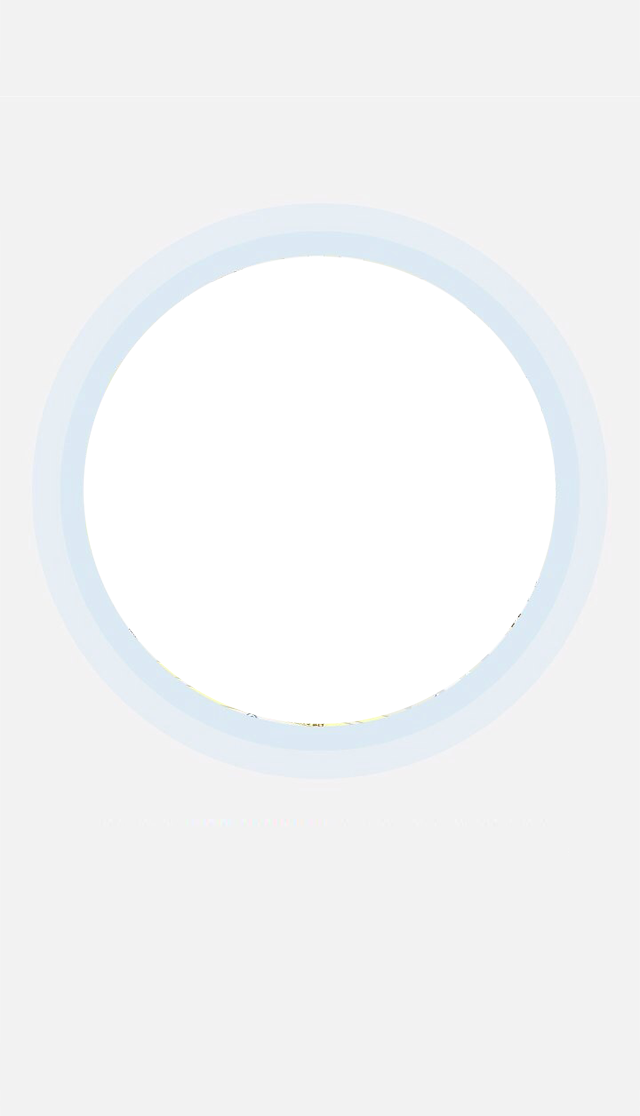
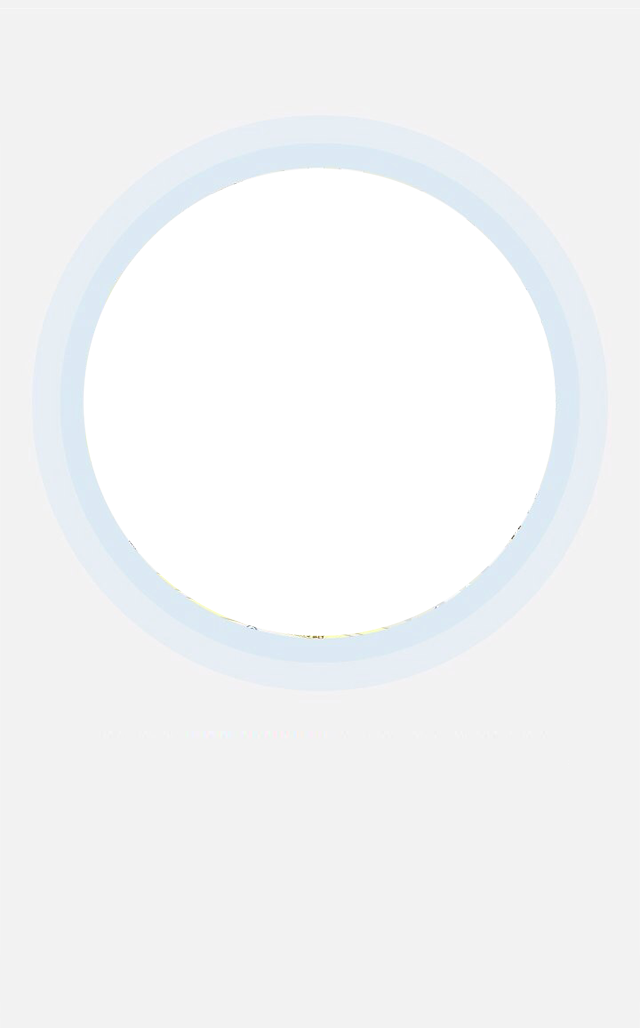
根据新ui调整代码

Changed region(s): [[0.125, 0.1556, 0.875, 0.4047], [0.125, 0.4358, 0.875, 0.6537]]

diff --git a/source/PigParking/PigParking/modules/index/PPIndexViewController.m b/source/PigParking/PigParking/modules/index/PPIndexViewController.m
@@ -12,6 +12,7 @@
 #import "PPMapView.h"
 #import "PPPullView.h"
 #import "PPParkingTableView.h"
+#import "PPParkingFilterView.h"
 #import "PPIndexModel.h"
 
 typedef enum {
@@ -30,7 +31,7 @@ typedef enum {
 @property (nonatomic, strong) UIBarButtonItem *leftBarButtonItem;
 @property (nonatomic, strong) UIBarButtonItem *rightBarButtonItem;
 
-@property (nonatomic, strong) PPPullView *parkingListView;
+@property (nonatomic, strong) PPPullView *pullView;
 
 @property (nonatomic, strong) PPIndexModel *indexModel;
 @property (nonatomic, strong) NSArray *parkingArray;
@@ -43,7 +44,10 @@ typedef enum {
 {
     PPIndexViewController *c = [[PPIndexViewController alloc] initWithNibName:nil bundle:nil];
     
+//    PPSettingsViewController *c = [[PPSettingsViewController alloc] initWithNibName:nil bundle:nil];
+    
     UINavigationController *nc = [[UINavigationController alloc] initWithRootViewController:c];
+    
     
     return nc;
 }
@@ -75,13 +79,19 @@ typedef enum {
     return self;
 }
 
+- (void)loadView
+{
+    CGRect win_s = [UIScreen mainScreen].bounds;
+    
+    self.view = [[UIView alloc] initWithFrame:CGRectMake(0.0f, 0.0f, win_s.size.width, win_s.size.height-20.0f-44.0f)];
+    self.view.backgroundColor = [UIColor whiteColor];
+}
+
 - (void)viewDidLoad
 {
     [super viewDidLoad];
     
     [self.navigationController.navigationBar setupTheme];
-    
-    self.view.backgroundColor = [UIColor whiteColor];
     
     _mapView = [PPMapView mapViewWithFrame:self.view.bounds];
     _mapView.mapView.userInteractionEnabled = YES;
@@ -187,7 +197,7 @@ typedef enum {
     }
     
         //tips
-    UILabel *lb = [[UILabel alloc] initWithFrame:CGRectMake(0.0f, 415.0f, [UIScreen mainScreen].bounds.size.width, 20.0f)];
+    UILabel *lb = [[UILabel alloc] initWithFrame:CGRectMake(0.0f, 405.0f, [UIScreen mainScreen].bounds.size.width, 20.0f)];
     lb.tag = PPIndexViewTagTipsLabel;
     lb.autoresizingMask = UIViewAutoresizingFlexibleBottomMargin;
     lb.font = [UIFont systemFontOfSize:13.0f];
@@ -284,22 +294,32 @@ typedef enum {
 
 - (void)btnBarListClick:(id)sender
 {
-    if (_parkingListView)
+    if (_pullView)
     {
-        [_parkingListView hide];
-        self.parkingListView = nil;
+        [_pullView hide];
+        self.pullView = nil;
         return;
     }
     
-    PPParkingTableView *tv = [[PPParkingTableView alloc] initWithFrame:self.view.bounds data:_parkingArray];
+    PPParkingTableView *tv = [[PPParkingTableView alloc] initWithFrame:CGRectMake(0.0f, 0.0f, self.view.bounds.size.width, self.view.bounds.size.height-80.0f)
+                                                                  data:_parkingArray];
     tv.actDelegate = self;
-    self.parkingListView = [[PPPullView alloc] initWithParentView:self.view contentView:tv];
-    [_parkingListView show];
+    self.pullView = [[PPPullView alloc] initWithParentView:self.view contentView:tv];
+    [_pullView show];
 }
 
 - (void)btnBarFilterClick:(id)sender
 {
+    if (_pullView)
+    {
+        [_pullView hide];
+        self.pullView = nil;
+        return;
+    }
     
+    PPParkingFilterView *fv = [[PPParkingFilterView alloc] initWithDelegate:self];
+    self.pullView = [[PPPullView alloc] initWithParentView:self.view contentView:fv];
+    [_pullView show];
 }
 
 #pragma mark - map tool bar buttons event

diff --git a/source/PigParking/PigParking/modules/parking/PPParkingDetailsViewController.m b/source/PigParking/PigParking/modules/parking/PPParkingDetailsViewController.m
@@ -29,11 +29,14 @@
     [super viewDidLoad];
     
     [self setupTheme];
-    self.view.backgroundColor = [UIColor whiteColor];
     
     self.navigationItem.leftBarButtonItem = [[UIBarButtonItem alloc] initWithBarButtonThemeItem:UIBarButtonThemeItemBack
                                                                                          target:self
                                                                                          action:@selector(btnBackClick:)];
+    
+    self.navigationItem.rightBarButtonItem = [[UIBarButtonItem alloc] initWithBarButtonThemeItem:UIBarButtonThemeItemUp
+                                                                                          target:self
+                                                                                          action:@selector(btnUpClick:)];
 }
 
 - (void)didReceiveMemoryWarning
@@ -47,6 +50,11 @@
 - (void)btnBackClick:(id)sender
 {
     [self.navigationController popViewControllerAnimated:YES];
+}
+
+- (void)btnUpClick:(id)sender
+{
+    
 }
 
 @end

diff --git a/source/PigParking/PigParking/modules/settings/PPHistoryViewController.m b/source/PigParking/PigParking/modules/settings/PPHistoryViewController.m
@@ -34,6 +34,10 @@
     self.navigationItem.leftBarButtonItem = [[UIBarButtonItem alloc] initWithBarButtonThemeItem:UIBarButtonThemeItemBack
                                                                                          target:self
                                                                                          action:@selector(btnBackClick:)];
+    
+    self.navigationItem.rightBarButtonItem = [[UIBarButtonItem alloc] initWithBarButtonThemeItem:UIBarButtonThemeItemClear
+                                                                                          target:self
+                                                                                          action:@selector(btnClearClick:)];
 }
 
 - (void)didReceiveMemoryWarning
@@ -110,6 +114,11 @@
 - (void)btnBackClick:(id)sender
 {
     [self.navigationController popViewControllerAnimated:YES];
+}
+
+- (void)btnClearClick:(id)sender
+{
+    
 }
 
 @end

diff --git a/source/PigParking/PigParking/modules/settings/PPSettingsViewController.m b/source/PigParking/PigParking/modules/settings/PPSettingsViewController.m
@@ -10,6 +10,7 @@
 #import "PPFeedbackViewController.h"
 #import "PPHistoryViewController.h"
 #import "PPSettingViewController.h"
+#import "PPAboutViewController.h"
 
 @interface PPSettingsViewController ()
 
@@ -77,7 +78,7 @@
     }
     else
     {
-        cell.textLabel.text = @"设置";
+        cell.textLabel.text = @"关于我们";
     }
     
     return cell;
@@ -97,7 +98,10 @@
     }
     else
     {
-        PPSettingViewController *c = [[PPSettingViewController alloc] initWithStyle:UITableViewStylePlain];
+//        PPSettingViewController *c = [[PPSettingViewController alloc] initWithStyle:UITableViewStylePlain];
+//        [self.navigationController pushViewController:c animated:YES];
+        
+        PPAboutViewController *c = [[PPAboutViewController alloc] initWithNibName:nil bundle:nil];
         [self.navigationController pushViewController:c animated:YES];
     }
 }

diff --git a/source/PigParking/PigParking/libs/PP/UI/UIBarButtonItem+Theme.m b/source/PigParking/PigParking/libs/PP/UI/UIBarButtonItem+Theme.m
@@ -35,12 +35,21 @@
         case UIBarButtonThemeItemFilter:
             img = [UIImage imageNamed:@"nav-item-filter"];
             break;
+            
+        case UIBarButtonThemeItemUp:
+            img = [UIImage imageNamed:@"nav-item-up"];
+            break;
+            
+        case UIBarButtonThemeItemClear:
+            img = [UIImage imageNamed:@"nav-item-clear"];
+            break;
     }
     
     UIButton *btn = [UIButton buttonWithType:UIButtonTypeCustom];
     [btn addTarget:target action:action forControlEvents:UIControlEventTouchUpInside];
     btn.bounds = CGRectMake(0.0f, 0.0f, img.size.width, img.size.height);
     [btn setImage:img forState:UIControlStateNormal];
+//    [btn setImage:img forState:UIControlStateHighlighted];
     btn.enabled = YES;
     
     self = [self initWithCustomView:btn];

diff --git a/source/PigParking/PigParking/modules/settings/PPAboutViewController.m b/source/PigParking/PigParking/modules/settings/PPAboutViewController.m
@@ -1,25 +1,25 @@
 //
-//  PPFeedbackViewController.m
+//  PPAboutViewController.m
 //  PigParking
 //
-//  Created by VincentLi on 14-7-6.
+//  Created by VincentLi on 14-7-10.
 //  Copyright (c) 2014年 VincentStation. All rights reserved.
 //
 
-#import "PPFeedbackViewController.h"
+#import "PPAboutViewController.h"
 
-@interface PPFeedbackViewController ()
+@interface PPAboutViewController ()
 
 @end
 
-@implementation PPFeedbackViewController
+@implementation PPAboutViewController
 
 - (id)initWithNibName:(NSString *)nibNameOrNil bundle:(NSBundle *)nibBundleOrNil
 {
     self = [super initWithNibName:nibNameOrNil bundle:nibBundleOrNil];
     if (self)
     {
-        self.title = @"意见反馈";
+        self.title = @"关于我们";
     }
     return self;
 }

diff --git a/source/PigParking/PigParking/modules/index/PPParkingFilterView.m b/source/PigParking/PigParking/modules/index/PPParkingFilterView.m
@@ -1,0 +1,36 @@
+//
+//  PPParkingFilterView.m
+//  PigParking
+//
+//  Created by VincentLi on 14-7-10.
+//  Copyright (c) 2014年 VincentStation. All rights reserved.
+//
+
+#import "PPParkingFilterView.h"
+
+@implementation PPParkingFilterView
+
+- (id)initWithDelegate:(id)delegate
+{
+    UIImageView *iv = [[UIImageView alloc] initWithImage:[UIImage imageNamed:@"test-filter"]];
+    
+    self = [super initWithFrame:iv.bounds];
+    if (self)
+    {
+        _delegate = delegate;
+        
+        [self addSubview:iv];
+    }
+    return self;
+}
+
+/*
+// Only override drawRect: if you perform custom drawing.
+// An empty implementation adversely affects performance during animation.
+- (void)drawRect:(CGRect)rect
+{
+    // Drawing code
+}
+*/
+
+@end

diff --git a/source/PigParking/PigParking/libs/PP/UI/UIViewController+Theme.m b/source/PigParking/PigParking/libs/PP/UI/UIViewController+Theme.m
@@ -19,9 +19,11 @@
     title_lab.backgroundColor = [UIColor clearColor];
     title_lab.text = self.title;
     title_lab.textAlignment = NSTextAlignmentCenter;
-    title_lab.textColor = [UIColor colorWithRed:0.4f green:0.4f blue:0.4f alpha:1.0f];
+    title_lab.textColor = [UIColor colorWithRed:0.08f green:0.08f blue:0.08f alpha:1.0f];
     title_lab.font = [UIFont boldSystemFontOfSize:20.0f];
     item.titleView = title_lab;
+    
+    self.view.backgroundColor = [UIColor colorWithRed:0.92f green:0.92f blue:0.92f alpha:1.0f];
     
     if ([self respondsToSelector:@selector(edgesForExtendedLayout)])
     {

diff --git a/source/PigParking/PigParking/libs/PP/UI/PPPullView.m b/source/PigParking/PigParking/libs/PP/UI/PPPullView.m
@@ -38,7 +38,7 @@
         [self addSubview:_maskView];
         
         self.contentView = contentView;
-        _contentView.frame = CGRectMake(0.0f, 0.0f-_contentView.bounds.size.height-40.0f, _contentView.bounds.size.width, _contentView.bounds.size.height-40.0f);
+        _contentView.frame = CGRectMake(0.0f, 0.0f-_contentView.bounds.size.height, _contentView.bounds.size.width, _contentView.bounds.size.height);
         [self addSubview:_contentView];
     }
     return self;

diff --git a/source/PigParking/PigParking/libs/PP/map/PPMapView.m b/source/PigParking/PigParking/libs/PP/map/PPMapView.m
@@ -281,6 +281,7 @@ static PPMapView *__instance = nil;
 //- (void)locationManager:(CLLocationManager *)manager
 //    didUpdateToLocation:(CLLocation *)newLocation
 //           fromLocation:(CLLocation *)oldLocation
+//- (void)locationManager:(CLLocationManager *)manager didUpdateLocations:(NSArray *)locations
 //{
 //    [self updateUserLocation:newLocation.coordinate];
 //}

diff --git a/source/PigParking/PigParking/modules/settings/PPSettingViewController.m b/source/PigParking/PigParking/modules/settings/PPSettingViewController.m
@@ -29,7 +29,6 @@
     [super viewDidLoad];
     
     [self setupTheme];
-    self.view.backgroundColor = [UIColor whiteColor];
     
     self.navigationItem.leftBarButtonItem = [[UIBarButtonItem alloc] initWithBarButtonThemeItem:UIBarButtonThemeItemBack
                                                                                          target:self

diff --git a/source/PigParking/PigParking/modules/index/PPParkingFilterView.h b/source/PigParking/PigParking/modules/index/PPParkingFilterView.h
@@ -1,0 +1,17 @@
+//
+//  PPParkingFilterView.h
+//  PigParking
+//
+//  Created by VincentLi on 14-7-10.
+//  Copyright (c) 2014年 VincentStation. All rights reserved.
+//
+
+#import <UIKit/UIKit.h>
+
+@interface PPParkingFilterView : UIView
+
+@property (nonatomic, assign) id delegate;
+
+- (id)initWithDelegate:(id)delegate;
+
+@end
